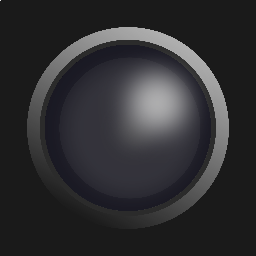
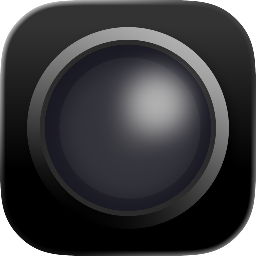
Still Music project

diff --git a/index.html b/index.html
@@ -87,6 +87,26 @@
                     </div>
                 </a>
 
+                <a href="https://gabrieldudekvidal.github.io/still-music-player-website/" target="_blank">
+                    <div class="con-project">
+                        <div class="project-header">
+                            <img
+                                class="work-logo"
+                                src="images/still_music.png"
+                                alt="Logo"
+                            />
+                            <div>
+                                <h2>Still Music Player</h2>
+                                <span>macOS</span>
+                            </div>
+                        </div>
+
+                        <p class="app-desc">
+                            As I love music, I wanted a music player focused on the music itself, with my collection organized by artists and albums for a clean and minimal listening experience.
+                        </p>
+                    </div>
+                </a>
+
                 <a href="https://gabrieldudekvidal.github.io/still-photo-library-website/" target="_blank">
                     <div class="con-project">
                         <div class="project-header">
@@ -96,13 +116,13 @@
                                 alt="Logo"
                             />
                             <div>
-                                <h2>Still</h2>
+                                <h2>Still Photo Library</h2>
                                 <span>macOS</span>
                             </div>
                         </div>
 
                         <p class="app-desc">
-                            Usually photo libraries often come packed with features like: social sharing, editing tools,
+                            Photo libraries often come packed with features like: social sharing, editing tools,
                             recommendations... While those tools are be useful, sometimes they take
                             away from the simple act of looking at and appreciating your own photos.
                             With this in mind I decided to create a distraction-free photo library.

diff --git a/css/style.css b/css/style.css
@@ -90,7 +90,6 @@ footer {
 .work-logo {
     width: 60px;
     height: 60px;
-    border-radius: 30%;
 }
 
 @media screen and (max-width: 480px) {
